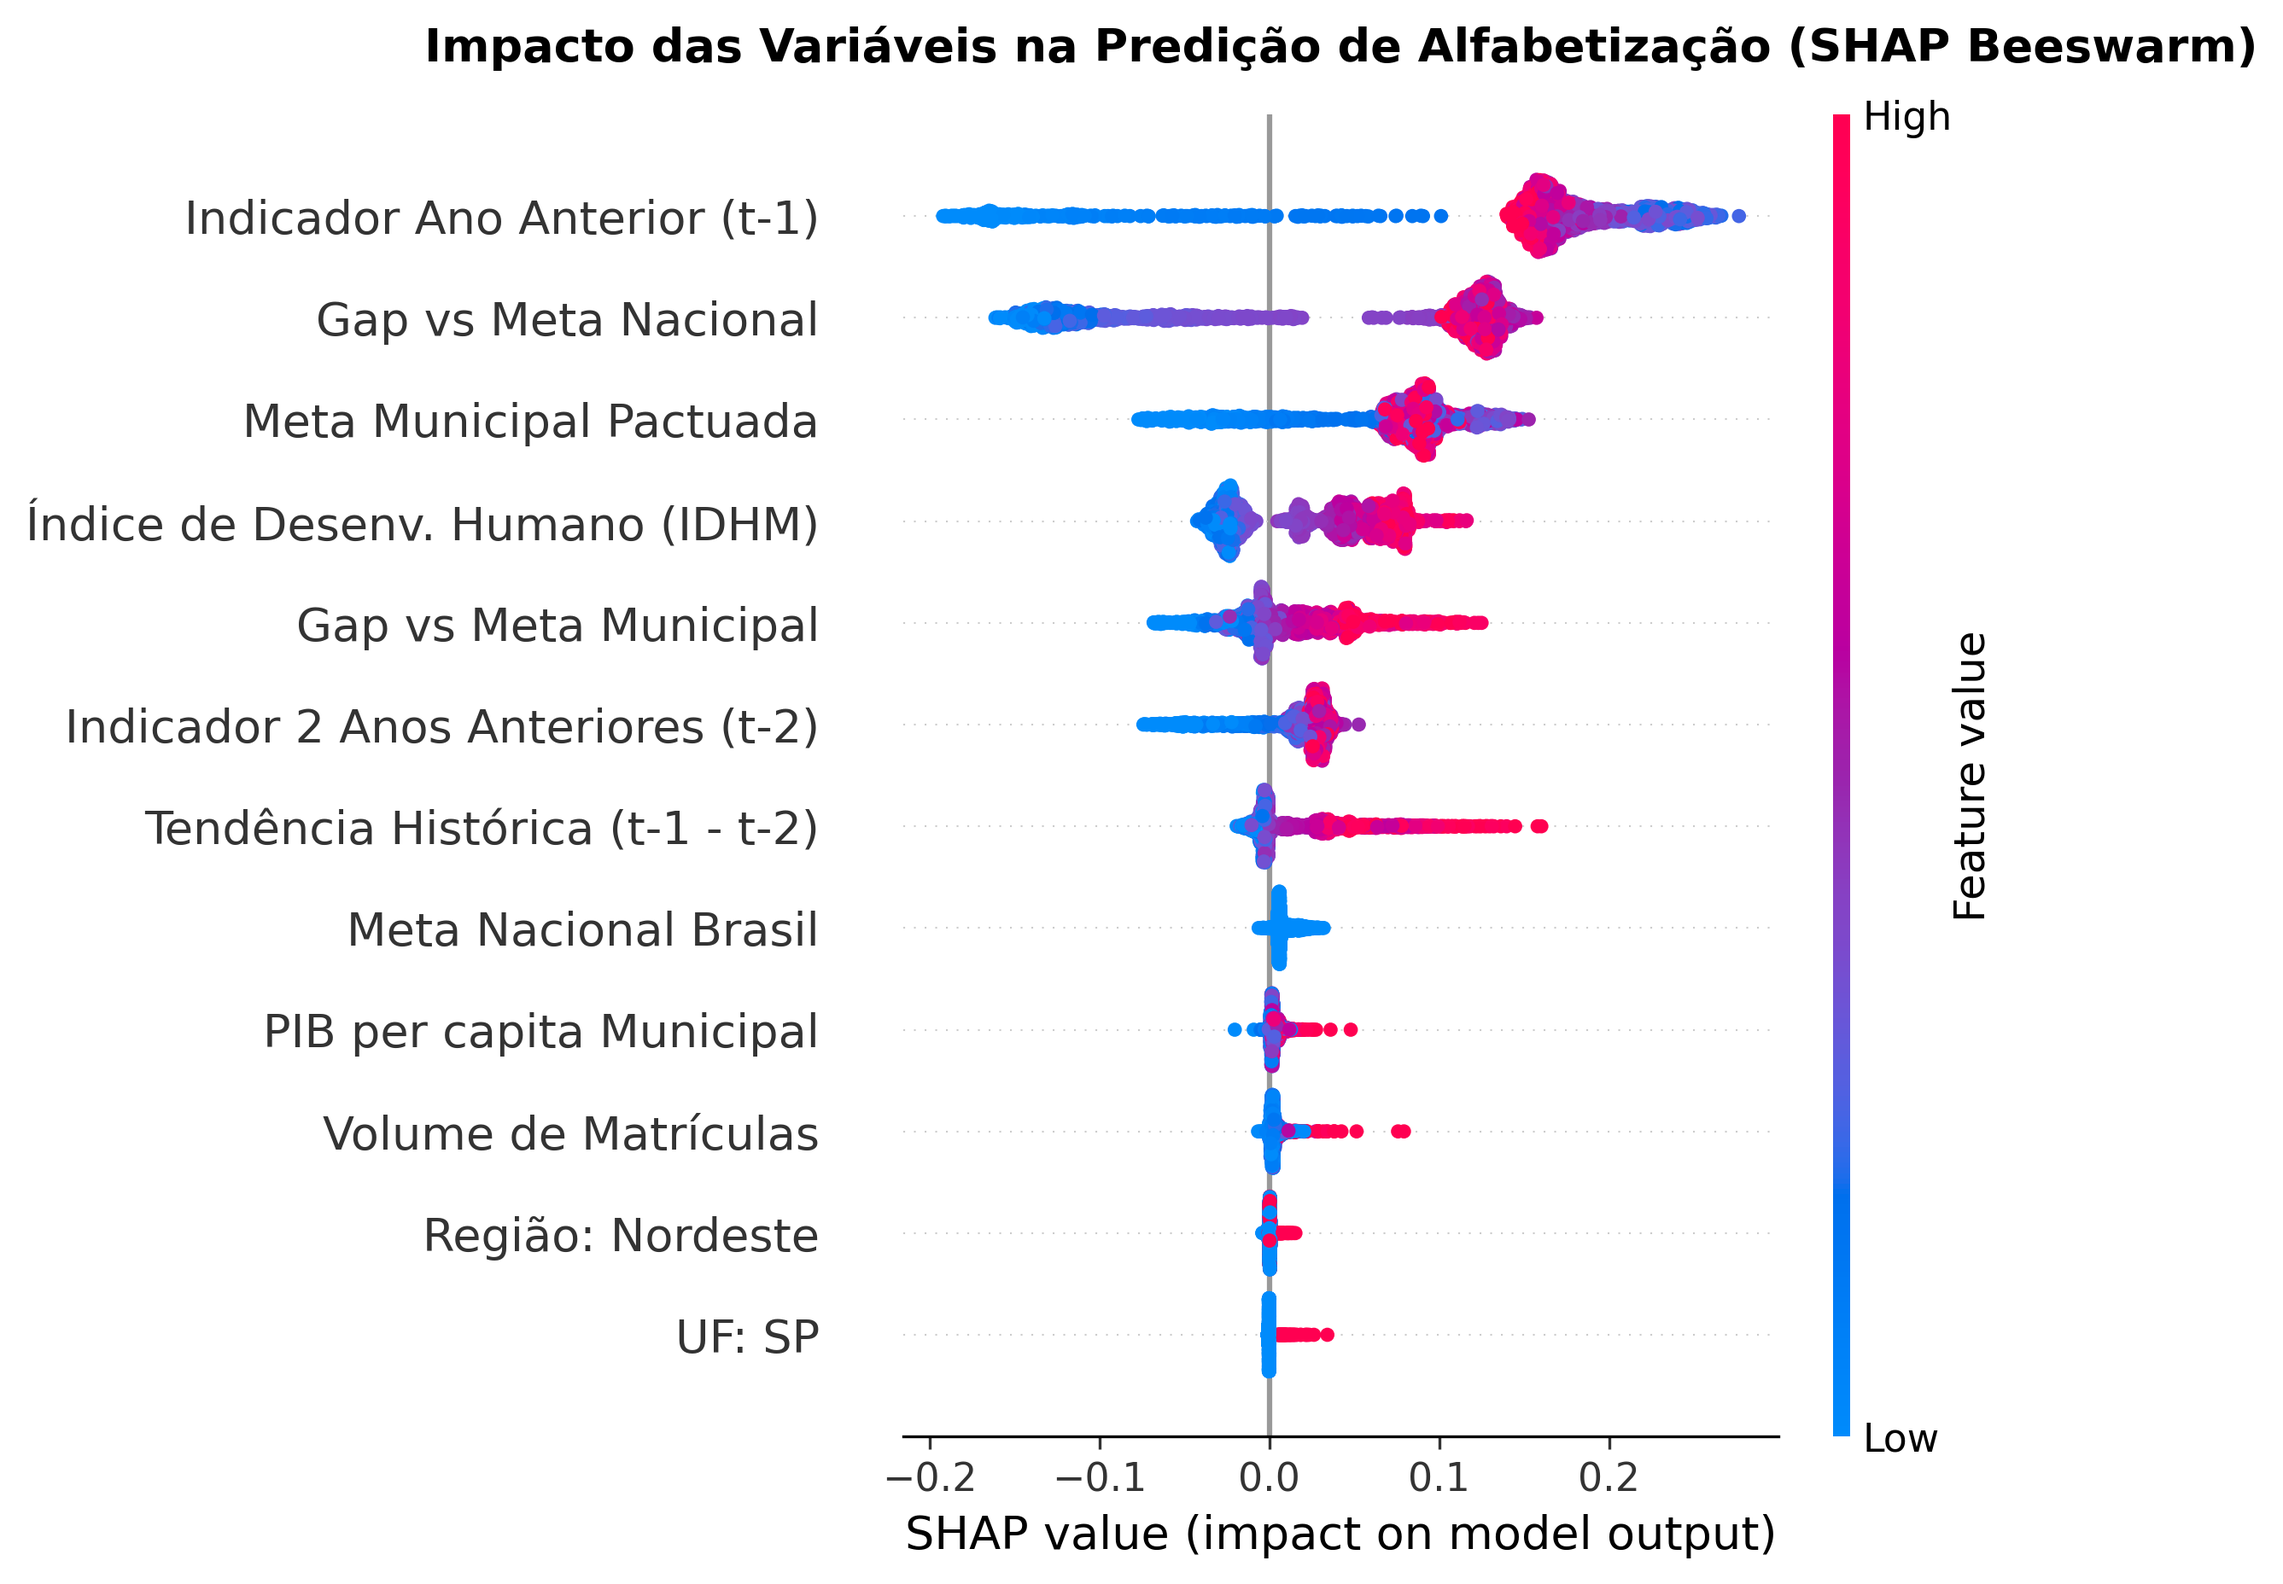
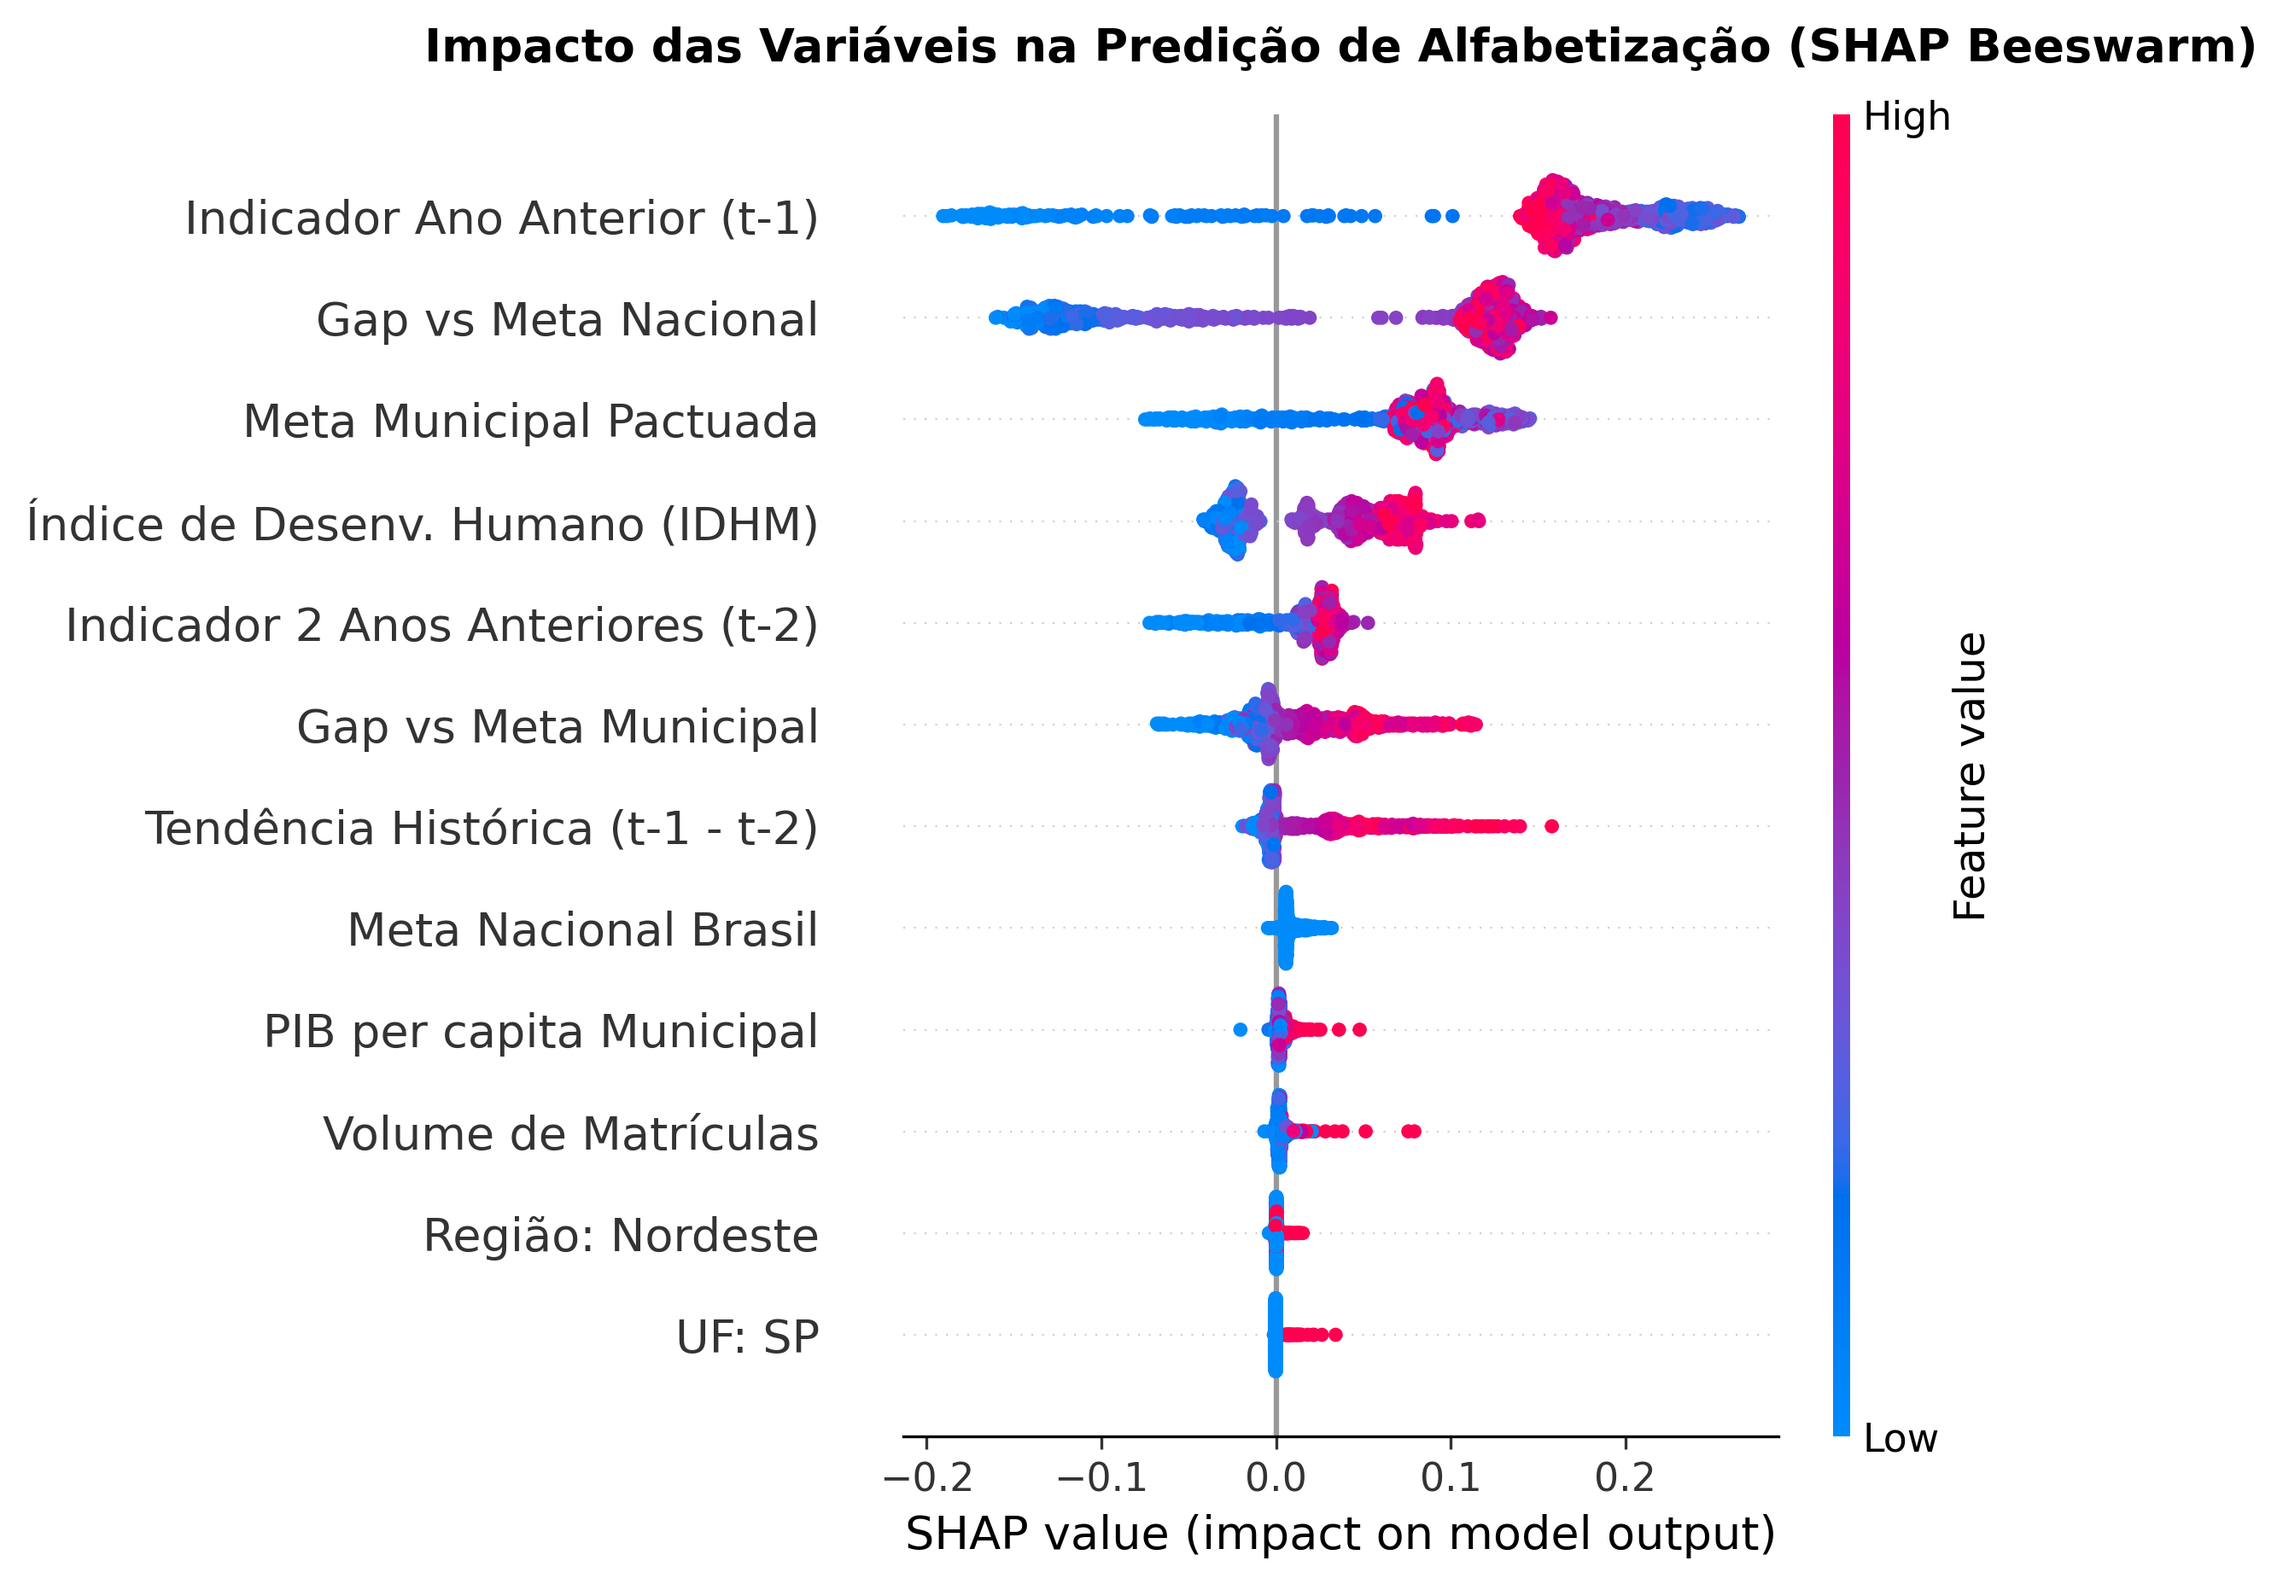
docs & feat(eval-10/10): add logistic regression coefficients triangulation, dynamic feature lookup, cold-start note, limitations section and production inference snippet

diff --git a/src/evaluation/shap_analysis.py b/src/evaluation/shap_analysis.py
@@ -12,6 +12,7 @@ import matplotlib.pyplot as plt
 import numpy as np
 import pandas as pd
 import shap
+from matplotlib.gridspec import GridSpec
 
 PROJECT_ROOT = Path(__file__).resolve().parents[2]
 if str(PROJECT_ROOT) not in sys.path:
@@ -125,9 +126,10 @@ def evaluate_and_explain(sample_size: int = 2000):
     print("🎨 Gerando SHAP Dependence Plot...")
     fig, (ax1, ax2) = plt.subplots(1, 2, figsize=(14, 5.5))
     
-    # Índice da feature indicador_lag1 (0) e IDHM (9)
-    idx_lag1 = 0
-    idx_idhm = 9
+    # Índice dinâmico das features (robusto a reordenação)
+    feature_list = feature_names.tolist()
+    idx_lag1 = feature_list.index("indicador_lag1")
+    idx_idhm = feature_list.index("IDHM")
 
     # Scatter manual de dependência com cor por IDHM
     scatter1 = ax1.scatter(
@@ -230,7 +232,78 @@ def evaluate_and_explain(sample_size: int = 2000):
     print("=" * 75)
     print(df_importance[["Feature", "Mean_Abs_SHAP"]].head(10).to_markdown(index=False))
 
+    # 6. Coeficientes do Modelo Campeão (Regressão Logística) — Triangulação
+    best_model_path = MODELS_DIR / "best_model_pipeline.pkl"
+    if best_model_path.exists():
+        best_clf = joblib.load(best_model_path)
+        best_estimator = best_clf.named_steps["classifier"]
+        if hasattr(best_estimator, "coef_"):
+            print("\n🔬 Gerando Triangulação: Coeficientes Logísticos vs SHAP...")
+            plot_logistic_coefficients(best_clf, feature_names, feature_names_clean)
+
     return df_importance
+
+
+def plot_logistic_coefficients(
+    pipeline,
+    feature_names: np.ndarray,
+    feature_names_clean: np.ndarray,
+    output_name: str = "10_logistic_coefficients.png",
+):
+    """
+    Extrai e plota os coeficientes padronizados da Regressão Logística campeã,
+    permitindo triangulação com os SHAP Values do Random Forest.
+    Coeficientes positivos indicam associação com Meta Atingida (Classe 1).
+    Coeficientes negativos indicam associação com Risco (Classe 0).
+    """
+    estimator = pipeline.named_steps["classifier"]
+    coefs = estimator.coef_[0]
+
+    # Alinhar coeficientes com nomes de features
+    n_features = min(len(coefs), len(feature_names_clean))
+    df_coef = pd.DataFrame({
+        "Feature": feature_names_clean[:n_features],
+        "Nome_Original": feature_names[:n_features],
+        "Coeficiente": coefs[:n_features],
+        "Abs_Coef": np.abs(coefs[:n_features]),
+    }).sort_values("Abs_Coef", ascending=False)
+
+    top_n = min(12, len(df_coef))
+    df_top = df_coef.head(top_n).sort_values("Coeficiente")
+
+    fig, ax = plt.subplots(figsize=(10, 6))
+    colors = ["#2ecc71" if c > 0 else "#e74c3c" for c in df_top["Coeficiente"]]
+    ax.barh(df_top["Feature"], df_top["Coeficiente"], color=colors, edgecolor="black", linewidth=0.8)
+    ax.axvline(0, color="black", linestyle="--", alpha=0.7)
+    ax.set_xlabel("Coeficiente Padronizado (Impacto no Log-Odds de Meta Atingida)", fontweight="bold")
+    ax.set_title(
+        "Coeficientes da Regressão Logística Campeã (Triangulação com SHAP)",
+        fontsize=13, fontweight="bold", pad=15
+    )
+
+    # Legenda de interpretação
+    ax.text(
+        0.98, 0.02,
+        "[+] Positivo (Protege Meta)  |  [-] Negativo (Aumenta Risco)",
+        transform=ax.transAxes, fontsize=9, ha="right", va="bottom",
+        bbox=dict(boxstyle="round,pad=0.4", fc="lightyellow", ec="gray", alpha=0.9)
+    )
+
+    plt.tight_layout()
+    coef_path = IMAGES_DIR / output_name
+    plt.savefig(coef_path, dpi=300, bbox_inches="tight")
+    plt.close()
+    print(f"   ✅ Salvo: {coef_path.name}")
+
+    # Salvar tabela de coeficientes
+    coef_csv_path = REPORTS_DIR / "logistic_coefficients.csv"
+    df_coef.to_csv(coef_csv_path, index=False)
+    print(f"💾 Tabela de coeficientes salva em: {coef_csv_path}")
+
+    print("\n" + "=" * 75)
+    print("🔬 TRIANGULAÇÃO: TOP 10 COEFICIENTES LOGÍSTICOS vs SHAP:")
+    print("=" * 75)
+    print(df_coef[["Feature", "Coeficiente", "Abs_Coef"]].head(10).to_markdown(index=False))
 
 
 if __name__ == "__main__":

diff --git a/README.md b/README.md
@@ -31,6 +31,8 @@ Os dados utilizados provêm da **Camada Gold** consolidada no BigQuery e exporta
    * **Teste Holdout**: Ano **2024** ($5.570$ instâncias), simulando o cenário real de predição do ano futuro a partir do passado.
 3. **Isolamento de Grupo na Validação Cruzada**: Na validação cruzada do treino, utiliza-se `StratifiedGroupKFold(n_splits=5, groups=id_municipio)`. Isso garante que todas as observações de um mesmo município fiquem estritamente no fold de treino ou no fold de validação, eliminando o risco de vazamento por autocorrelação intra-municipal.
 
+> **Nota sobre *Cold Start* dos Lags (Ano 2022):** As features `indicador_lag2` e `tendencia_historica` são nulas (`NaN`) para os registros do ano 2022, pois o primeiro ano da série não possui dados defasados em $t-2$. Esse comportamento é esperado e tratado automaticamente pelo `SimpleImputer(strategy='median')` na pipeline de pré-processamento, que substitui os valores ausentes pela mediana do conjunto de treino sem introduzir viés informacional. O impacto na predição é negligível, dado que o ano 2022 compõe apenas o conjunto de treino e a feature principal (`indicador_lag1`) está 100% preenchida.
+
 ### Dicionário de Features Preditoras:
 
 | Variável | Tipo | Descrição | Papel no Modelo |
@@ -89,6 +91,12 @@ Utilizando o `TreeExplainer` no modelo de ensemble de árvores otimizado, realiz
 ![SHAP Bar Importance](images/07_shap_bar_importance.png)
 ![SHAP Dependence Plot](images/08_shap_dependence_plot.png)
 ![SHAP Local Waterfall](images/09_shap_local_waterfall.png)
+
+### Triangulação com Coeficientes da Regressão Logística Campeã
+
+Para complementar os SHAP Values (calculados sobre o ensemble de árvores), extraímos e plotamos os **coeficientes padronizados da Regressão Logística** — o modelo efetivamente selecionado como campeão. A convergência entre ambas as métricas confirma a robustez da interpretação:
+
+![Coeficientes Logísticos](images/10_logistic_coefficients.png)
 
 ### Ranking dos Fatores Determinantes (Top 10):
 
@@ -188,9 +196,11 @@ tech-challenge-fase3/
 │   ├── 08_shap_dependence_plot.png
 │   ├── 08_threshold_tuning.png
 │   ├── 09_shap_local_waterfall.png
-│   └── 09_unsupervised_clusters.png
+│   ├── 09_unsupervised_clusters.png
+│   └── 10_logistic_coefficients.png
 ├── reports/
-│   └── shap_feature_importance.csv           # Ranking de importância SHAP
+│   ├── shap_feature_importance.csv           # Ranking de importância SHAP
+│   └── logistic_coefficients.csv             # Coeficientes padronizados do modelo campeão
 ├── requirements.txt                          # Dependências com versões fixas
 ├── LICENSE                                   # Licença MIT
 └── README.md                                 # Documentação executiva completa
@@ -198,7 +208,61 @@ tech-challenge-fase3/
 
 ---
 
-## 9. Como Reproduzir o Projeto
+## 9. Limitações e Trabalhos Futuros
+
+### Limitações Conhecidas
+
+1. **Horizonte de Predição de 1 Ano**: O modelo opera com *one-step-ahead prediction*. Previsões para 2+ anos exigiriam abordagens autorregressivas ou modelos sequenciais.
+2. **Ausência de Variáveis de Investimento Público**: Dados de gasto per aluno, número de professores por turma e infraestrutura escolar (laboratórios, bibliotecas) não estão disponíveis na Camada Gold atual. Sua inclusão potencialmente melhoraria o poder explicativo.
+3. **Premissa de Estacionariedade**: O modelo assume que as relações entre features e target permanecem relativamente estáveis ao longo do tempo. Choques exógenos (ex: pandemia, mudanças curriculares abruptas) podem requerer recalibração.
+4. **Granularidade Municipal**: Heterogeneidade intra-municipal (ex: zonas rural vs urbana) não é capturada, pois os dados são agregados por município.
+
+### Trabalhos Futuros
+
+1. **Modelos Sequenciais (LSTM / GRU)**: Capturar dinâmicas temporais de longo prazo na evolução dos indicadores educacionais.
+2. **Feature Engineering Avançada**: Incorporar dados do Censo Escolar (INEP), SIOPE (investimento público em educação) e PNAD Contínua (nível socioeconômico familiar).
+3. **Deploy via API REST**: Disponibilizar o modelo como serviço (`FastAPI` + Docker) para integração com painéis do MEC em tempo real.
+4. **Fairness Audit**: Avaliar viés do modelo em relação a raça/etnia e zona urbana/rural para garantir equidade nas recomendações de política pública.
+
+---
+
+## 10. Exemplo de Predição em Produção
+
+```python
+import joblib
+import pandas as pd
+
+# Carregar pipeline completa (preprocessor + modelo campeão)
+pipeline = joblib.load("models/best_model_pipeline.pkl")
+
+# Dados de um novo município (features disponíveis antes do resultado do ano t)
+novo_municipio = pd.DataFrame([{
+    "indicador_lag1": 52.3,        # Indicador de alfabetização em t-1
+    "indicador_lag2": 48.7,        # Indicador de alfabetização em t-2
+    "tendencia_historica": 3.6,    # Variação: lag1 - lag2
+    "gap_historico_vs_meta_municipio": -5.2,  # Gap em relação à meta municipal
+    "gap_historico_vs_meta_nacional": -8.1,   # Gap em relação à meta nacional
+    "meta_municipio": 57.5,        # Meta pactuada para o ano t
+    "meta_nacional": 60.0,         # Meta nacional para o ano t
+    "quantidade_matriculas": 1200, # Matrículas na rede municipal
+    "PIB_per_capita": 18500.0,     # PIB per capita (R$)
+    "IDHM": 0.612,                 # Índice de Desenvolvimento Humano
+    "sigla_uf": "MA",              # Unidade Federativa
+    "regiao": "Nordeste",          # Grande Região
+}])
+
+# Gerar predição
+proba = pipeline.predict_proba(novo_municipio)[0]
+risco = 1 - proba[1]  # P(Risco) = 1 - P(Meta Atingida)
+
+print(f"Probabilidade de Meta Atingida: {proba[1]:.2%}")
+print(f"Probabilidade de Risco:         {risco:.2%}")
+print(f"Classificação: {'⚠ RISCO' if risco >= 0.40 else '✅ Meta Provável'}")
+```
+
+---
+
+## 11. Como Reproduzir o Projeto
 
 ```bash
 # 1. Ativar o ambiente virtual
